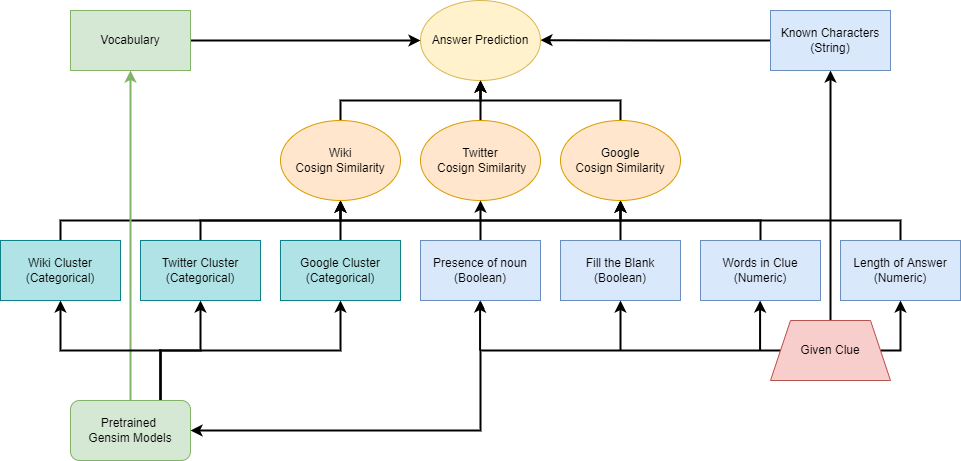
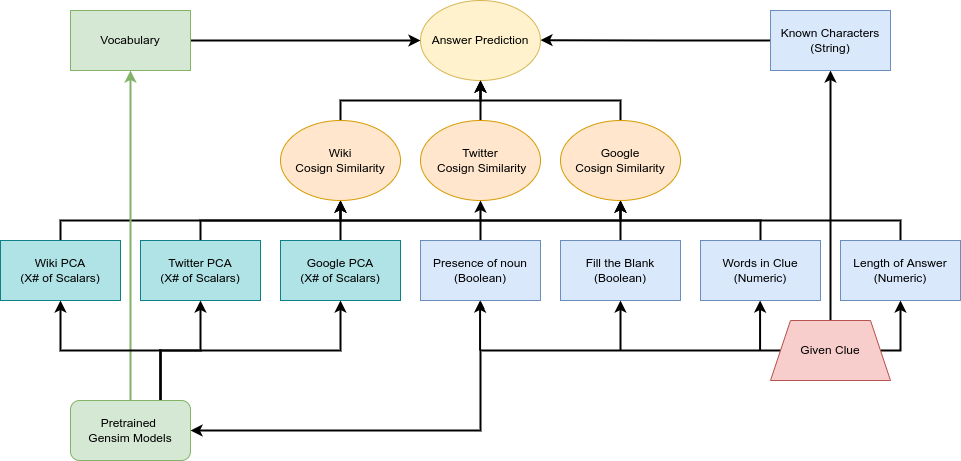
added documentation to custom classes, fixed bugs in compile_predictions function

diff --git a/custom_transformers.py b/custom_transformers.py
@@ -50,6 +50,20 @@ COSINE_PREDICTION_FEATURES = ['noun_involved',
                               'wiki_9']
 
 class StringFeatures(BaseEstimator, TransformerMixin):
+    """This transformer cleans the clues and builds features corresponding to them.
+        Required:
+            X:  Dataframe containing a 'clue' column
+        Optional:
+            y:  Series of corresponding anwers, passing this in will automatically generate 
+            the "answer length" column.
+            
+            min_characters_for_wordcount: Int that determines the required length of a word for it to
+            count towards the "word_count" feature.
+            
+            percents_of_known_characters: List containing floats between 0 and 1, representing 
+            precentages. If a y is also included, this will automatically create columns of partially 
+            filled answers, used for training and testing purposes.       
+    """
     def __init__(self, min_characters_for_wordcount:int = 1, percents_of_known_characters:list=CHARACTER_PERCENTAGES):
         self.min_characters_for_wordcount = min_characters_for_wordcount
         self.percents_of_known_characters = percents_of_known_characters
@@ -119,6 +133,16 @@ class StringFeatures(BaseEstimator, TransformerMixin):
 
 
 class PCAFeatures(BaseEstimator, TransformerMixin):
+    """This transformer vectorizes the clues and convert the vectors into a smaller feature set
+       using PCA.
+       
+       Required: 
+            gensim_model_dict: Dictionary with the gensim model id as keys and instantiated model as values.
+       
+       Optional:
+            pca_components: Int determining the number of features that should be built from the word vectors
+            that each model produces for a given clue. 
+    """
     def __init__(   self, gensim_model_dict:dict, pca_components:int = 10):
         
         self.gensim_model_dict = gensim_model_dict
@@ -168,6 +192,15 @@ class PCAFeatures(BaseEstimator, TransformerMixin):
     
     
 class SimilarityPrediction(BaseEstimator, TransformerMixin):
+    """This estimator uses the given gensim models and estimators to produce the
+       predicted_similarity features.
+       
+       Required:
+            gensim_model_dict: Dictionary with the gensim model id as keys and instantiated model as values.
+            
+            predictor_dict: Dictionary with the gensim model id as keys corresponding to the gensim model 
+            that the estimator is meant for, and instantiated estimator as values.
+    """
     def __init__(   self, gensim_model_dict:dict, predictor_dict:dict,):
         
         self.gensim_model_dict = gensim_model_dict
@@ -198,6 +231,17 @@ class SimilarityPrediction(BaseEstimator, TransformerMixin):
         
 
 class SelectTopNWords():
+    """This estimator predcits the answer for a given clue by using the previously predicted
+       cosine similarities to parse the vocabularies of the models and select an answer with
+       the expected degree of similarity.  Each model votes on a word and gives it a confidence 
+       score, and their combined selections are narrows to the top n highest scores.
+       Two dataframes are returned, one containing the chosen words and another containing their
+       confidence scores.
+       
+       Optional:
+            TopN: Int, determining the number of words returned.  Models will selected twice this 
+            amount individually before their choices are paired down to the final selection by voting.
+    """
     def __init__(self, topN:int=5):   
         self.topN = topN
         self.all_predictions ={}
@@ -228,15 +272,15 @@ class SelectTopNWords():
         for i, row in pd.DataFrame(predictions).iterrows():
             votes = {}
             for chosen_words in row:
-                if not chosen_words is np.nan:
+                if type(chosen_words) is dict:
                     for word, score in chosen_words.items():
                         if word in votes:
                             votes[word]+=score
                         else:
                             votes[word]= score
             votes = sorted(votes.items(), key= lambda kv: kv[1], reverse=True)[:self.topN]
-            final_words[i] = [vote[0] for vote in votes]
-            final_scores[i] = [vote[1]/len(predictions) for vote in votes]          
+            final_words[i] = [vote[0] for vote in votes] + [''] * (5 - len(votes))  
+            final_scores[i] = [vote[1]/len(predictions) for vote in votes] + [np.nan] * (5 - len(votes))    
         return pd.DataFrame(final_words).T, pd.DataFrame(final_scores).T    
     
 
@@ -248,3 +292,19 @@ class SelectTopNWords():
         clue_vectors = pd.Series([np.mean(model[x],axis=0) for x in clues])
         clue_vectors.index = clues.index
         return clue_vectors
+    
+class SelectRandomWords():
+    def __init__(self):   
+        self.all_predictions = {}
+        
+    def predict(self, known_characters:pd.Series, gensim_models:dict):
+        self.all_predictions = {}
+        vocab = set()
+        for model_name, model in gensim_models.items():
+            vocab.update(model.index_to_key)
+            
+        for index, characters in known_characters.iteritems():
+            regex_pattern = re.compile('^'+''.join([x if not x == '_' else '[a-z]' for x in characters])+'$')
+            available_words = [x[0] for x in vocab if regex_pattern.match(x[0]) ]
+            self.all_predictions[i] = available_words[random.randint(0,len(available_words)-1)]
+        return pd.DataFrame(self.all_predictions).T
